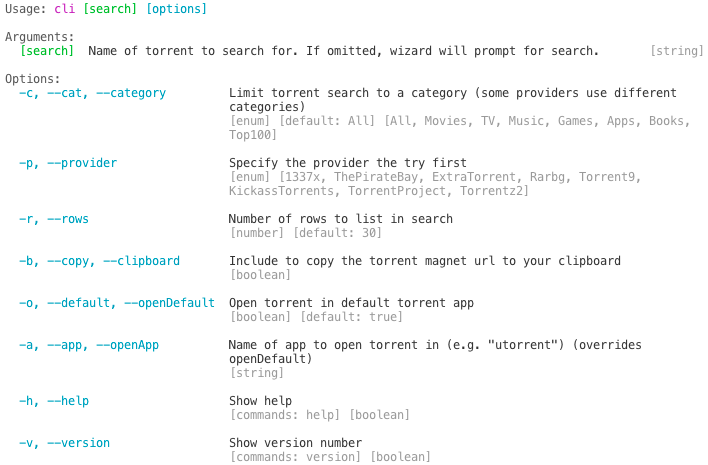
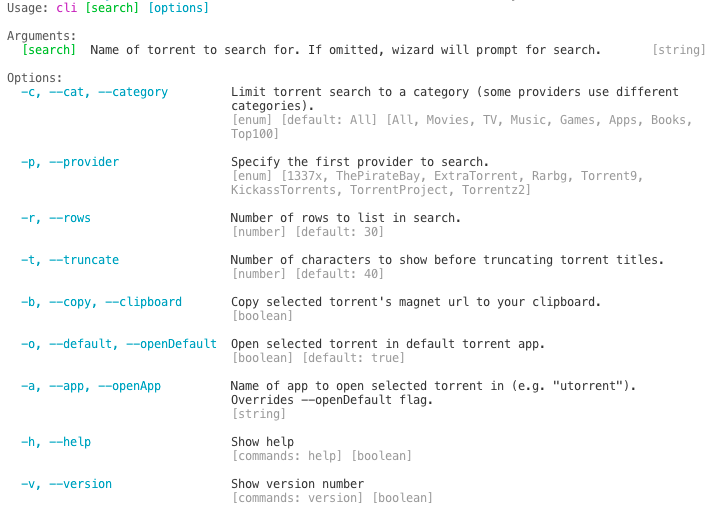
add truncate titles option to fix list display

diff --git a/cli.js b/cli.js
@@ -11,12 +11,12 @@ const cli = require('sywac')
   // TODO: Include home dir config where defaults can be set
   // If config command is run, change config
   // .command('config <option> <value>', {
-  //   desc: 'Change config of specified option',
+  //   desc: 'Change config of specified option.',
   //   params: [{
-  //     desc: 'Config option to change',
+  //     desc: 'Config option to change.',
   //     choices: ['openInDefault', 'openInApp', 'copyToClipBoard']
   //   }, {
-  //     desc: 'Value to set option to',
+  //     desc: 'Value to set option to.',
   //     choices: ['true', 'false'],
   //     defaultValue: 'true'
   //   }],
@@ -28,29 +28,33 @@ const cli = require('sywac')
   .style(require('sywac-style-basic'))
   .outputSettings({ maxWidth: 100 })
   .enumeration('-c, --cat, --category', {
-    desc: 'Limit torrent search to a category (some providers use different categories)',
+    desc: 'Limit torrent search to a category (some providers use different categories).',
     choices: ['All', 'Movies', 'TV', 'Music', 'Games', 'Apps', 'Books', 'Top100'],
     defaultValue: 'All'
   })
   .enumeration('-p, --provider', {
-    desc: 'Specify the provider the try first',
+    desc: 'Specify the first provider to search.',
     choices: ['1337x', 'ThePirateBay', 'ExtraTorrent', 'Rarbg', 'Torrent9', 'KickassTorrents', 'TorrentProject', 'Torrentz2']
   })
   .number('-r, --rows', {
-    desc: 'Number of rows to list in search',
+    desc: 'Number of rows to list in search.',
     defaultValue: 30
+  })
+  .number('-t, --truncate', {
+    desc: 'Number of characters to show before truncating torrent titles.',
+    defaultValue: 40
   })
   // TODO: Remove some of these options in favor of a config.json that lives in home dir
   .boolean('-b, --copy, --clipboard', {
-    desc: 'Include to copy the torrent magnet url to your clipboard',
+    desc: `Copy selected torrent's magnet url to your clipboard.`,
     defaultValue: false
   })
   .boolean('-o, --default, --openDefault', {
-    desc: 'Open torrent in default torrent app',
+    desc: 'Open selected torrent in default torrent app.',
     defaultValue: true
   })
   .string('-a, --app, --openApp', {
-    desc: 'Name of app to open torrent in (e.g. "utorrent") (overrides openDefault)'
+    desc: 'Name of app to open selected torrent in (e.g. "utorrent"). Overrides --openDefault flag.'
   })
   .help('-h, --help')
   .version('-v, --version')
@@ -63,7 +67,7 @@ async function main () {
     openApp: argv.openApp
   }
   // When nothing is passed in, the wizard will ask the user to search
-  index.wizard(false, argv.search, argv.category, argv.provider, argv.rows, cliOptions)
+  index.wizard(false, argv.search, argv.category, argv.provider, argv.rows, argv.truncate, cliOptions)
 }
 
 if (require.main === module) {

diff --git a/index.js b/index.js
@@ -21,7 +21,7 @@ function overWriteOptions (cliOpts) {
   }
 }
 
-async function wizard (isNext, searchQuery, category, provider, rows, cliOpts) {
+async function wizard (isNext, searchQuery, category, provider, rows, truncateLength, cliOpts) {
   if (cliOpts) overWriteOptions(cliOpts)
   // Ask use if they want to continue if after first iteration
   if (isNext) {
@@ -36,7 +36,7 @@ async function wizard (isNext, searchQuery, category, provider, rows, cliOpts) {
   }
 
   let torrent
-  let inquirerResp = await getTorrent(searchQuery, category, provider, rows)
+  let inquirerResp = await getTorrent(searchQuery, category, provider, rows, truncateLength)
   if (inquirerResp) torrent = inquirerResp.selection
   const magnet = await getMagnet(torrent)
   if (!magnet) return console.error(chalk.red('Magnet not found.'))
@@ -74,7 +74,7 @@ async function getTorrents (query, category, provider, providers = config.torren
   }
 }
 
-async function getTorrent (withQuery, category, provider, rows) {
+async function getTorrent (withQuery, category, provider, rows, truncateLength) {
   let searchString = ''
   while (true) {
     if (!withQuery) {
@@ -94,7 +94,7 @@ async function getTorrent (withQuery, category, provider, rows) {
       category = undefined
       continue
     }
-    return utils.promptTitle('Which torrent?', torrents)
+    return utils.promptTitle('Which torrent?', torrents, truncateLength)
   }
 }
 

diff --git a/utils.js b/utils.js
@@ -6,7 +6,7 @@ const chalk = require('chalk')
 
 const config = require('./config')
 
-async function promptTitle (message, titles) {
+async function promptTitle (message, titles, truncateLength) {
   /* CHECKS */
   const hasSeeders = titles[0] && _.isNumber(titles[0].seeds)
   const hasLeechers = titles[0] && _.isNumber(titles[0].peers)
@@ -34,7 +34,7 @@ async function promptTitle (message, titles) {
   if (config.torrents.details.size && hasSize) colors.push('yellow')
   if (config.torrents.details.time && hasTime) colors.push('magenta')
 
-  const choices = toChoicesTable(table, titles, colors)
+  const choices = toChoicesTable(table, titles, colors, truncateLength)
 
   return inquirer.prompt({
     type: config.listType,
@@ -60,8 +60,15 @@ function parseSize (size) {
   }
 }
 
-function toChoicesTable (table, titles, colors = []) {
+function toChoicesTable (table, titles, colors = [], truncateLength) {
   if (table[0] && table[0].length > 1) {
+    // Shorten title names
+    for (const row of table) {
+      row[0] = _.truncate(row[0], {
+        length: truncateLength
+      })
+    }
+
     // Get max lengths for padding
     const maxLengths = table[0].map((val, index) => _.max(table.map(row => String(row[index] && row[index].length))))
 
